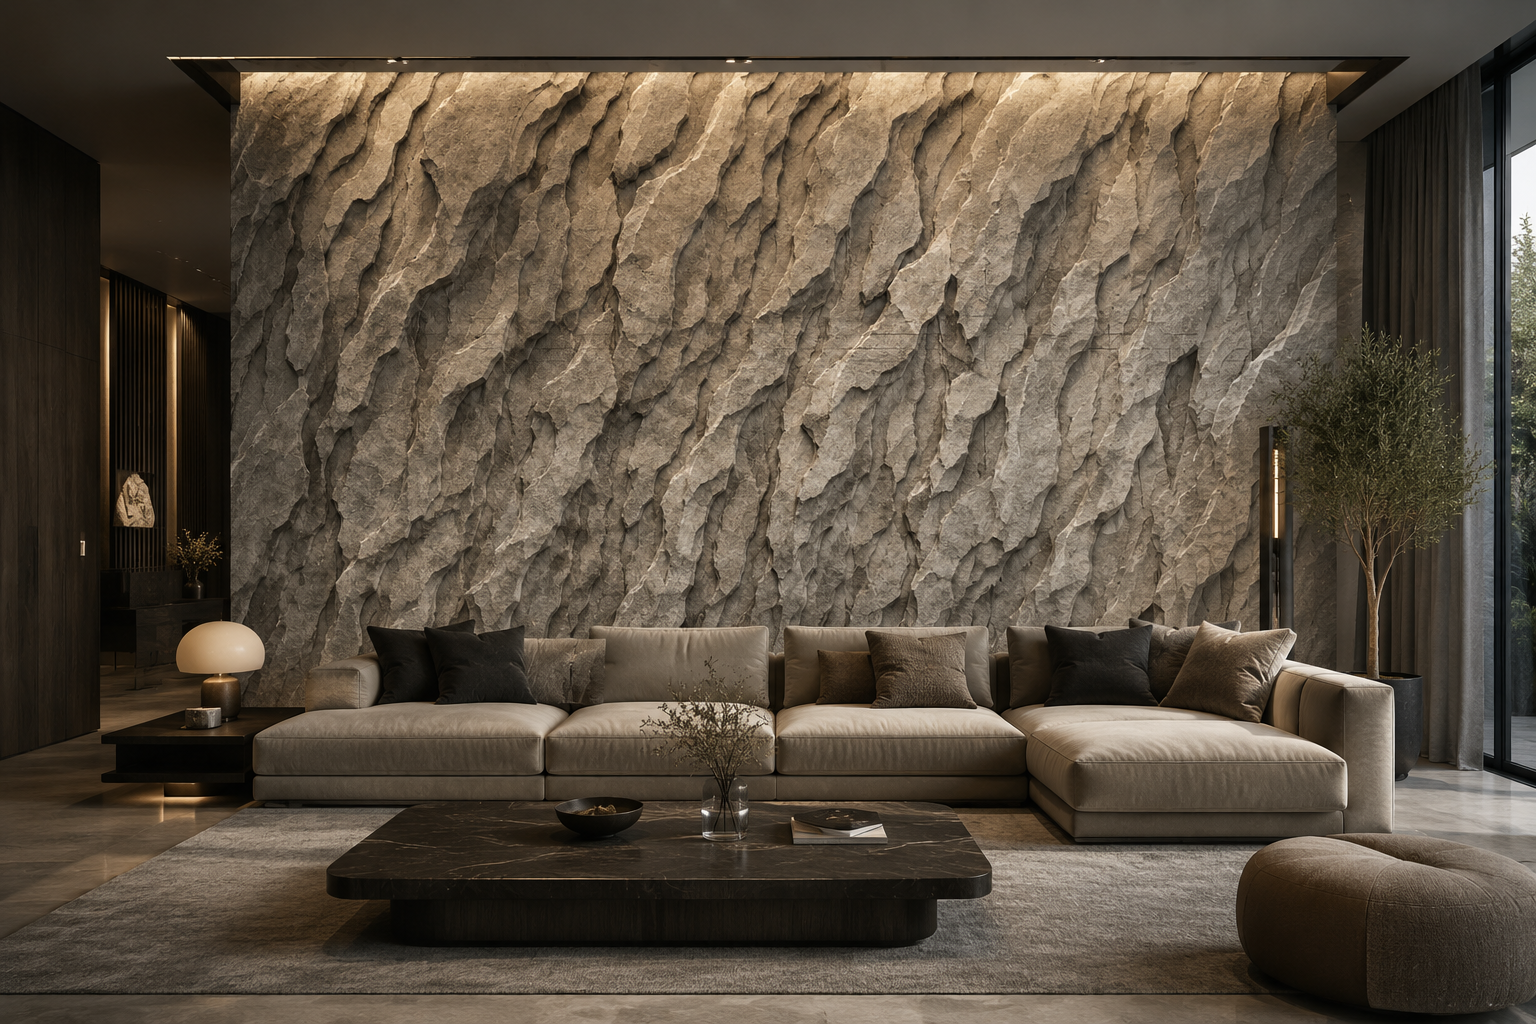
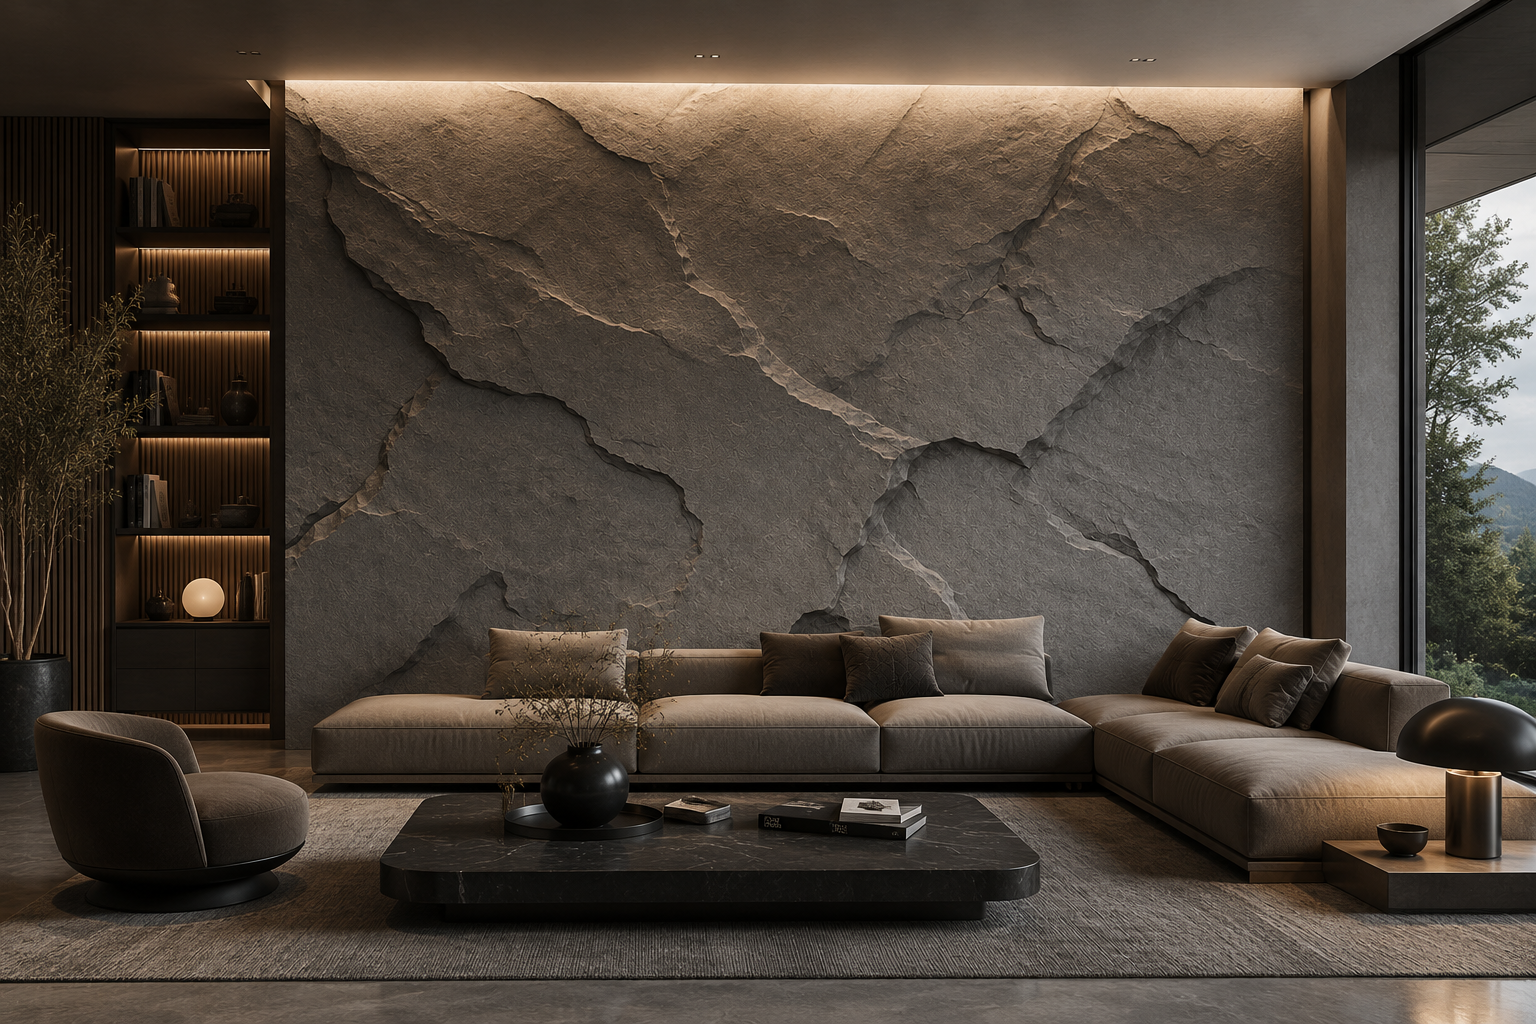
msignature

diff --git a/src/i18n/translations.ts b/src/i18n/translations.ts
@@ -11,8 +11,8 @@ export const translations: Record<Language, Record<string, string>> = {
 
     // Hero
     'hero.preTitle': 'Coleções de Referência',
-    'hero.brand': 'MARTINEZ',
-    'hero.subBrand': 'M.13',
+    'hero.brand': 'M',
+    'hero.subBrand': 'Signature',
     'hero.tagline': 'Elegância Premium',
     'hero.viewCollection': 'Ver Coleção',
     'hero.whatsapp': 'WhatsApp',
@@ -22,9 +22,9 @@ export const translations: Record<Language, Record<string, string>> = {
     'about.label': 'A Casa',
     'about.heading': 'O Nosso Legado',
     'about.story1': 'Nascida da paixão pelo desenho, da exploração da textura e da vontade de transformar superfícies em peças únicas',
-    'about.story2': 'A Martinez M.13 nasceu da paixão pelo desenho e da vontade de transformar ideias em peças físicas capazes de dar uma nova identidade aos espaços.',
+    'about.story2': 'A M Signature nasceu da paixão pelo desenho e da vontade de transformar ideias em peças físicas capazes de dar uma nova identidade aos espaços.',
     'about.story3': 'Cada criação percorre um processo cuidado, onde o desenho, o relevo, a textura e o acabamento se unem para criar peças verdadeiramente únicas. Mais do que elementos decorativos, são superfícies pensadas para marcar presença e contar uma história.',
-    'about.accent': 'Guiada pela ambição, pela irreverência e pela atenção ao detalhe, a Martinez M.13 procura desafiar o convencional e apresentar uma nova forma de interpretar o design modular para interiores.',
+    'about.accent': 'Guiada pela ambição, pela irreverência e pela atenção ao detalhe, a M Signature procura desafiar o convencional e apresentar uma nova forma de interpretar o design modular para interiores.',
 
     // Collection
     'collection.label': 'Peças Assinatura',
@@ -110,20 +110,20 @@ export const translations: Record<Language, Record<string, string>> = {
 
     'collection.col2.name': 'Coleção Paredes Modulares',
     'collection.col2.description': 'Paredes modulares para interiores únicos.',
-    'collection.col2.product1.name': 'Produto 1',
+    'collection.col2.product1.name': 'Quartzite Drift',
     'collection.col2.product1.description': 'Descrição do produto 1.',
-    'collection.col2.product2.name': 'Produto 2',
+    'collection.col2.product2.name': 'Stone Monolit',
     'collection.col2.product2.description': 'Descrição do produto 2.',
-    'collection.col2.product3.name': 'Produto 3',
+    'collection.col2.product3.name': 'Stone Origins',
     'collection.col2.product3.description': 'Descrição do produto 3.',
-    'collection.col2.product4.name': 'Produto 4',
+    'collection.col2.product4.name': 'Strata Veil',
     'collection.col2.product4.description': 'Descrição do produto 4.',
-    'collection.col2.product5.name': 'Produto 5',
-    'collection.col2.product5.description': 'Descrição do produto 5.',
-    'collection.col2.product6.name': 'Produto 6',
-    'collection.col2.product6.description': 'Descrição do produto 6.',
-    'collection.col2.product7.name': 'Produto 7',
-    'collection.col2.product7.description': 'Descrição do produto 7.',
+    //'collection.col2.product5.name': 'Produto 5',
+    //'collection.col2.product5.description': 'Descrição do produto 5.',
+    //'collection.col2.product6.name': 'Produto 6',
+    //'collection.col2.product6.description': 'Descrição do produto 6.',
+    //'collection.col2.product7.name': 'Produto 7',
+    //'collection.col2.product7.description': 'Descrição do produto 7.',
 
     // Custom Orders
     'custom.label': 'Além Da Coleção',
@@ -142,7 +142,7 @@ export const translations: Record<Language, Record<string, string>> = {
     // Contact
     'contact.label': 'Vamos criar algo único',
     'contact.heading': 'Contacto',
-    'contact.description': 'Se procura uma peça exclusiva, pretende desenvolver um projeto personalizado ou simplesmente conhecer melhor a Martinez M.13, teremos todo o gosto em falar consigo.',
+    'contact.description': 'Se procura uma peça exclusiva, pretende desenvolver um projeto personalizado ou simplesmente conhecer melhor a M Signature, teremos todo o gosto em falar consigo.',
     'contact.whatsapp.label': 'WhatsApp',
     'contact.whatsapp.value': 'Converse Connosco',
     'contact.whatsapp.description': 'Conversa direta — resposta imediata',
@@ -150,7 +150,7 @@ export const translations: Record<Language, Record<string, string>> = {
     'contact.email.value': 'contact@martinezm13.com',
     'contact.email.description': 'Rápida resposta ao seu pedido',
     'contact.instagram.label': 'Instagram',
-    'contact.instagram.value': '@martinezm13',
+    'contact.instagram.value': '@msignature',
     'contact.instagram.description': 'Siga as nossas criações mais recentes',
     'contact.location': 'Mediante Agendamento — Mundial',
 
@@ -170,8 +170,8 @@ export const translations: Record<Language, Record<string, string>> = {
 
     // Hero
     'hero.preTitle': 'Established Collections',
-    'hero.brand': 'MARTINEZ',
-    'hero.subBrand': 'M.13',
+    'hero.brand': 'M',
+    'hero.subBrand': 'SIGNATURE',
     'hero.tagline': 'Premium Elegance',
     'hero.viewCollection': 'View Collection',
     'hero.whatsapp': 'WhatsApp',
@@ -181,9 +181,9 @@ export const translations: Record<Language, Record<string, string>> = {
     'about.label': 'The House',
     'about.heading': 'Our Legacy',
     'about.story1': 'Born from a passion for design, the exploration of texture, and the desire to transform surfaces into unique pieces.',
-    'about.story2': 'Martinez M.13 was born from a passion for design and the desire to turn ideas into physical pieces capable of giving spaces a new identity.',
+    'about.story2': 'M Signature was born from a passion for design and the desire to turn ideas into physical pieces capable of giving spaces a new identity.',
     'about.story3': 'Each creation follows a careful process, where drawing, relief, texture, and finish come together to create truly unique pieces. More than decorative elements, they are surfaces designed to make a statement and tell a story.',
-    'about.accent': 'Driven by ambition, irreverence, and attention to detail, Martinez M.13 seeks to challenge convention and present a new way of interpreting modular design for interiors.',
+    'about.accent': 'Driven by ambition, irreverence, and attention to detail, M Signature seeks to challenge convention and present a new way of interpreting modular design for interiors.',
 
     // Collection
     'collection.label': 'Signature Pieces',
@@ -277,12 +277,12 @@ export const translations: Record<Language, Record<string, string>> = {
     'collection.col2.product3.description': 'Product 3 description.',
     'collection.col2.product4.name': 'Product 4',
     'collection.col2.product4.description': 'Product 4 description.',
-    'collection.col2.product5.name': 'Product 5',
-    'collection.col2.product5.description': 'Product 5 description.',
-    'collection.col2.product6.name': 'Product 6',
-    'collection.col2.product6.description': 'Product 6 description.',
-    'collection.col2.product7.name': 'Product 7',
-    'collection.col2.product7.description': 'Product 7 description.',
+    //'collection.col2.product5.name': 'Product 5',
+    //'collection.col2.product5.description': 'Product 5 description.',
+    //'collection.col2.product6.name': 'Product 6',
+    //'collection.col2.product6.description': 'Product 6 description.',
+    //'collection.col2.product7.name': 'Product 7',
+    //'collection.col2.product7.description': 'Product 7 description.',
     // Custom Orders
     'custom.label': 'Beyond The Collection',
     'custom.heading': 'Custom Orders',
@@ -308,7 +308,7 @@ export const translations: Record<Language, Record<string, string>> = {
     'contact.email.value': 'contact@martinezm13.com',
     'contact.email.description': 'For detailed inquiries',
     'contact.instagram.label': 'Instagram',
-    'contact.instagram.value': '@martinezm13',
+    'contact.instagram.value': '@msignature',
     'contact.instagram.description': 'Follow our latest creations',
     'contact.location': 'By Appointment — Worldwide',
 

diff --git a/src/components/CollectionDetail.tsx b/src/components/CollectionDetail.tsx
@@ -7,6 +7,7 @@ import painel_portucale from '../assets/products/painel_portucale.jpeg';
 import painel_redemption from '../assets/products/painel_redemption.jpeg';
 import painel_terra from '../assets/products/painel_terra.jpeg';
 import painel_vigilis from '../assets/products/painel_vigilis.jpeg';
+import cover1 from '../assets/products/cover1.png';
 import cover2 from '../assets/products/cover2.png';
 import cover3 from '../assets/products/cover3.png';
 import cover4 from '../assets/products/cover4.png';
@@ -48,10 +49,10 @@ const collectionsData: Record<string, CollectionData> = {
       { id: 'p1', name: 'collection.col2.product1.name', description: 'collection.col2.product1.description', image: cover2 },
       { id: 'p2', name: 'collection.col2.product2.name', description: 'collection.col2.product2.description', image: cover3 },
       { id: 'p3', name: 'collection.col2.product3.name', description: 'collection.col2.product3.description', image: cover4 },
-      { id: 'p4', name: 'collection.col2.product4.name', description: 'collection.col2.product4.description', image: quartzitedrift },
-      { id: 'p5', name: 'collection.col2.product5.name', description: 'collection.col2.product5.description', image: stonemono },
-      { id: 'p6', name: 'collection.col2.product6.name', description: 'collection.col2.product6.description', image: stoneorig },
-      { id: 'p7', name: 'collection.col2.product7.name', description: 'collection.col2.product7.description', image: strataveil },
+      { id: 'p4', name: 'collection.col2.product4.name', description: 'collection.col2.product4.description', image: cover1 },
+      //{ id: 'p5', name: 'collection.col2.product5.name', description: 'collection.col2.product5.description', image: stonemono },
+      //{ id: 'p6', name: 'collection.col2.product6.name', description: 'collection.col2.product6.description', image: stoneorig },
+      //{ id: 'p7', name: 'collection.col2.product7.name', description: 'collection.col2.product7.description', image: strataveil },
     ],
   },
 };

diff --git a/src/components/ProductDetail.tsx b/src/components/ProductDetail.tsx
@@ -7,6 +7,7 @@ import painel_portucale from '../assets/products/painel_portucale.jpeg';
 import painel_redemption from '../assets/products/painel_redemption.jpeg';
 import painel_terra from '../assets/products/painel_terra.jpeg';
 import painel_vigilis from '../assets/products/painel_vigilis.jpeg';
+import cover1 from '../assets/products/cover1.png';
 import cover2 from '../assets/products/cover2.png';
 import cover3 from '../assets/products/cover3.png';
 import cover4 from '../assets/products/cover4.png';
@@ -34,10 +35,10 @@ const allProducts: Record<string, Record<string, Product>> = {
     p1: { name: 'collection.col2.product1.name', description: 'collection.col2.product1.description', image: cover2 },
     p2: { name: 'collection.col2.product2.name', description: 'collection.col2.product2.description', image: cover3 },
     p3: { name: 'collection.col2.product3.name', description: 'collection.col2.product3.description', image: cover4 },
-    p4: { name: 'collection.col2.product4.name', description: 'collection.col2.product4.description', image: quartzitedrift },
-    p5: { name: 'collection.col2.product5.name', description: 'collection.col2.product5.description', image: stonemono },
-    p6: { name: 'collection.col2.product6.name', description: 'collection.col2.product6.description', image: stoneorig },
-    p7: { name: 'collection.col2.product7.name', description: 'collection.col2.product7.description', image: strataveil },
+    p4: { name: 'collection.col2.product4.name', description: 'collection.col2.product4.description', image: cover1 },
+    //p5: { name: 'collection.col2.product5.name', description: 'collection.col2.product5.description', image: stonemono },
+    //p6: { name: 'collection.col2.product6.name', description: 'collection.col2.product6.description', image: stoneorig },
+    //p7: { name: 'collection.col2.product7.name', description: 'collection.col2.product7.description', image: strataveil },
   },
 };
 

diff --git a/src/components/Hero.tsx b/src/components/Hero.tsx
@@ -4,7 +4,7 @@ import bgTexture from '../assets/texture.jpg';
 
 export default function Hero() {
   const { t } = useTranslation();
-  const whatsappUrl = 'https://wa.me/1234567890?text=Hello%20Martinez%20M.13%2C%20I%20am%20interested%20in%20your%20collection.';
+  const whatsappUrl = 'https://wa.me/1234567890?text=Hello%20M.Signature%2C%20I%20am%20interested%20in%20your%20collection.';
 
   return (
     <section id="hero" className="relative min-h-screen flex items-center justify-center overflow-hidden">
@@ -26,10 +26,9 @@ export default function Hero() {
             <span className="w-8 h-px bg-gold-500" />
           </div>
         </div>
-        <h1 className="font-display text-5xl sm:text-7xl md:text-8xl lg:text-9xl tracking-[0.05em] leading-none mb-6 animate-fade-in-up">
-          <span className="gold-gradient-text">{t('hero.brand')}</span>
-          <br />
-          <span className="text-midnight-100 font-light text-4xl sm:text-5xl md:text-6xl lg:text-7xl tracking-[0.15em]">{t('hero.subBrand')}</span>
+        <h1 className="font-display tracking-[0.05em] leading-tight mb-6 animate-fade-in-up">
+          <span className="gold-gradient-text text-5xl sm:text-7xl md:text-8xl lg:text-9xl block">{t('hero.brand')}</span>
+          <span className="text-midnight-100 font-light text-4xl sm:text-5xl md:text-6xl lg:text-7xl tracking-[0.15em] block -mt-4">{t('hero.subBrand')}</span>
         </h1>
         <p className="font-display text-xl sm:text-2xl md:text-3xl italic text-gold-300/80 mb-12 animate-fade-in-up" style={{ animationDelay: '0.3s' }}>{t('hero.tagline')}</p>
         <div className="luxury-divider w-24 mx-auto mb-12 animate-fade-in" style={{ animationDelay: '0.5s' }} />

diff --git a/src/components/Footer.tsx b/src/components/Footer.tsx
@@ -10,7 +10,7 @@ export default function Footer() {
         <div className="flex flex-col md:flex-row items-center justify-between gap-8">
           <div className="text-center md:text-left">
             <p className="font-display text-xl tracking-widest gold-gradient-text mb-2">
-              MARTINEZ M.13
+               M Signature
             </p>
             <p className="font-body text-xs tracking-[0.3em] uppercase text-midnight-400">
               {t('footer.tagline')}
@@ -31,7 +31,7 @@ export default function Footer() {
           */}
           <div className="flex flex-col items-end text-right">
             <p className="font-body text-xs text-midnight-500 tracking-wider">
-              &copy; {new Date().getFullYear()} Martinez M.13. {t('footer.rights')}
+              &copy; {new Date().getFullYear()} M Signature. {t('footer.rights')}
             </p>
             <p className="font-body text-xs text-midnight-400 tracking-wider mt-1">
               crafted by{' '}

diff --git a/src/components/About.tsx b/src/components/About.tsx
@@ -46,7 +46,7 @@ export default function About() {
               <div className="relative bg-midnight-700/50 border border-gold-500/20 p-12 text-center">
                 <Diamond className="mx-auto mb-6 text-gold-400" size={40} strokeWidth={1} />
                 <p className="font-display text-3xl md:text-4xl gold-gradient-text mb-4">
-                  M.13
+                  MSignature
                 </p>
                 <div className="luxury-divider w-12 mx-auto mb-4" />
                 <p className="font-body text-sm tracking-[0.3em] uppercase text-gold-500/70">

diff --git a/src/components/Navbar.tsx b/src/components/Navbar.tsx
@@ -50,7 +50,7 @@ export default function Navbar() {
             onClick={() => handleNavClick('hero')}
             className="font-display text-2xl tracking-widest gold-gradient-text"
           >
-            MARTINEZ M.13
+            M Signature
           </button>
 
           {/* Desktop nav */}
